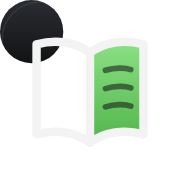
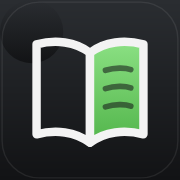
Icône de l'appli : fond noir plein, sans coins transparents
Claude-Session: https://claude.ai/code/session_019jd7bFnsnV7dE7F7voaq7N

diff --git a/templates/verification.html b/templates/verification.html
@@ -5,7 +5,7 @@
 <meta name="viewport" content="width=device-width, initial-scale=1">
 <meta name="robots" content="noindex">
 <title>Vérification · MouFlanga</title>
-<link rel="icon" type="image/svg+xml" href="/icons/mouflanga.svg"><link rel="icon" type="image/png" sizes="32x32" href="/icons/favicon-32.png"><link rel="apple-touch-icon" href="/icons/apple-touch-icon.png"><link rel="manifest" href="/icons/manifest.webmanifest"><meta name="theme-color" content="#121315">
+<link rel="icon" type="image/svg+xml" href="/icons/mouflanga.svg"><link rel="icon" type="image/png" sizes="32x32" href="/icons/favicon-32.png"><link rel="apple-touch-icon" href="/icons/apple-touch-icon.png?v=2"><link rel="manifest" href="/icons/manifest.webmanifest"><meta name="theme-color" content="#121315">
 <link rel="stylesheet" href="/ui/mou-ui.css?v={{ version|urlencode }}">
 <link rel="stylesheet" href="/ui/mou-settings.css?v={{ version|urlencode }}">
 <link rel="stylesheet" href="/ui/verification.css?v={{ version|urlencode }}">

diff --git a/templates/importer.html b/templates/importer.html
@@ -5,7 +5,7 @@
 <meta name="viewport" content="width=device-width, initial-scale=1">
 <meta name="robots" content="noindex">
 <title>Importer · MouFlanga</title>
-<link rel="icon" type="image/svg+xml" href="/icons/mouflanga.svg"><link rel="icon" type="image/png" sizes="32x32" href="/icons/favicon-32.png"><link rel="apple-touch-icon" href="/icons/apple-touch-icon.png"><link rel="manifest" href="/icons/manifest.webmanifest"><meta name="theme-color" content="#121315">
+<link rel="icon" type="image/svg+xml" href="/icons/mouflanga.svg"><link rel="icon" type="image/png" sizes="32x32" href="/icons/favicon-32.png"><link rel="apple-touch-icon" href="/icons/apple-touch-icon.png?v=2"><link rel="manifest" href="/icons/manifest.webmanifest"><meta name="theme-color" content="#121315">
 <link rel="stylesheet" href="/ui/mou-ui.css?v={{ version|urlencode }}">
 <link rel="stylesheet" href="/ui/mou-settings.css?v={{ version|urlencode }}">
 <link rel="stylesheet" href="/ui/importer.css?v={{ version|urlencode }}">

diff --git a/templates/reglages.html b/templates/reglages.html
@@ -5,7 +5,7 @@
 <meta name="viewport" content="width=device-width, initial-scale=1">
 <meta name="robots" content="noindex">
 <title>Réglages · MouFlanga</title>
-<link rel="icon" type="image/svg+xml" href="/icons/mouflanga.svg"><link rel="icon" type="image/png" sizes="32x32" href="/icons/favicon-32.png"><link rel="apple-touch-icon" href="/icons/apple-touch-icon.png"><link rel="manifest" href="/icons/manifest.webmanifest"><meta name="theme-color" content="#121315">
+<link rel="icon" type="image/svg+xml" href="/icons/mouflanga.svg"><link rel="icon" type="image/png" sizes="32x32" href="/icons/favicon-32.png"><link rel="apple-touch-icon" href="/icons/apple-touch-icon.png?v=2"><link rel="manifest" href="/icons/manifest.webmanifest"><meta name="theme-color" content="#121315">
 <link rel="stylesheet" href="/ui/mou-ui.css?v={{ version|urlencode }}">
 <script src="/ui/mou-ui.js?v={{ version|urlencode }}" defer></script>
 <script src="/ui/verif-banniere.js?v={{ version|urlencode }}" defer></script>

diff --git a/templates/index.html b/templates/index.html
@@ -5,7 +5,7 @@
 <meta name="viewport" content="width=device-width, initial-scale=1">
 <meta name="robots" content="noindex">
 <title>MouFlanga</title>
-<link rel="icon" type="image/svg+xml" href="/icons/mouflanga.svg"><link rel="icon" type="image/png" sizes="32x32" href="/icons/favicon-32.png"><link rel="apple-touch-icon" href="/icons/apple-touch-icon.png"><link rel="manifest" href="/icons/manifest.webmanifest"><meta name="theme-color" content="#121315">
+<link rel="icon" type="image/svg+xml" href="/icons/mouflanga.svg"><link rel="icon" type="image/png" sizes="32x32" href="/icons/favicon-32.png"><link rel="apple-touch-icon" href="/icons/apple-touch-icon.png?v=2"><link rel="manifest" href="/icons/manifest.webmanifest"><meta name="theme-color" content="#121315">
 <link rel="stylesheet" href="/ui/mou-ui.css?v={{ version|urlencode }}">
 <link rel="stylesheet" href="/ui/mouflanga.css?v={{ version|urlencode }}">
 <script src="/ui/mou-ui.js?v={{ version|urlencode }}" defer></script>

diff --git a/templates/lecteur.html b/templates/lecteur.html
@@ -5,7 +5,7 @@
 <meta name="viewport" content="width=device-width, initial-scale=1, viewport-fit=cover">
 <meta name="robots" content="noindex">
 <title>Lecteur · MouFlanga</title>
-<link rel="icon" type="image/svg+xml" href="/icons/mouflanga.svg"><link rel="icon" type="image/png" sizes="32x32" href="/icons/favicon-32.png"><link rel="apple-touch-icon" href="/icons/apple-touch-icon.png"><meta name="theme-color" content="#000000">
+<link rel="icon" type="image/svg+xml" href="/icons/mouflanga.svg"><link rel="icon" type="image/png" sizes="32x32" href="/icons/favicon-32.png"><link rel="apple-touch-icon" href="/icons/apple-touch-icon.png?v=2"><meta name="theme-color" content="#000000">
 <link rel="stylesheet" href="/ui/mou-ui.css?v={{ version|urlencode }}">
 <link rel="stylesheet" href="/ui/lecteur.css?v={{ version|urlencode }}">
 <script src="/ui/hors-ligne.js?v={{ version|urlencode }}" defer></script>

diff --git a/auth.py b/auth.py
@@ -162,7 +162,7 @@ LOGIN_HTML = """<!DOCTYPE html>
 <meta name="viewport" content="width=device-width, initial-scale=1">
 <meta name="robots" content="noindex">
 <title>Connexion · MouFlanga</title>
-<link rel="icon" type="image/svg+xml" href="/icons/mouflanga.svg"><link rel="icon" type="image/png" sizes="32x32" href="/icons/favicon-32.png"><link rel="apple-touch-icon" href="/icons/apple-touch-icon.png"><link rel="manifest" href="/icons/manifest.webmanifest"><meta name="theme-color" content="#121315">
+<link rel="icon" type="image/svg+xml" href="/icons/mouflanga.svg"><link rel="icon" type="image/png" sizes="32x32" href="/icons/favicon-32.png"><link rel="apple-touch-icon" href="/icons/apple-touch-icon.png?v=2"><link rel="manifest" href="/icons/manifest.webmanifest"><meta name="theme-color" content="#121315">
 <link rel="stylesheet" href="/ui/mou-ui.css">
 </head>
 <body class="mou-login">

diff --git a/CHANGELOG.md b/CHANGELOG.md
@@ -1,5 +1,8 @@
 # Historique des versions
 
+## Icône de l'appli (12 octobre 2026, soir)
+- 🎨 L'icône de l'appli sur le téléphone a maintenant un fond noir plein (les coins transparents la rendaient illisible sur fond clair).
+
 ## Correction d'affichage (12 octobre 2026, soir)
 - 🔧 Fiche d'une série : le « ? » de la légende des sources est de nouveau un petit rond à côté de la pastille (il apparaissait comme un grand bloc vert en dessous).
 
